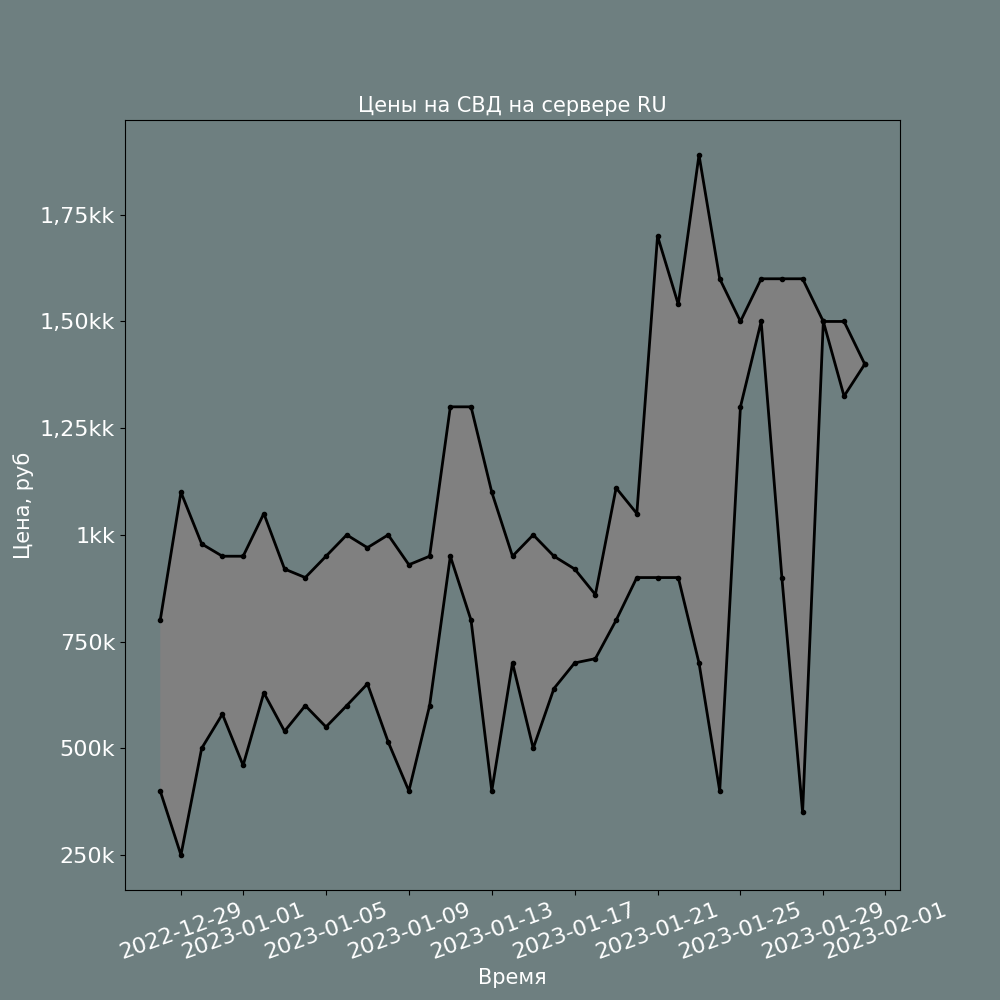
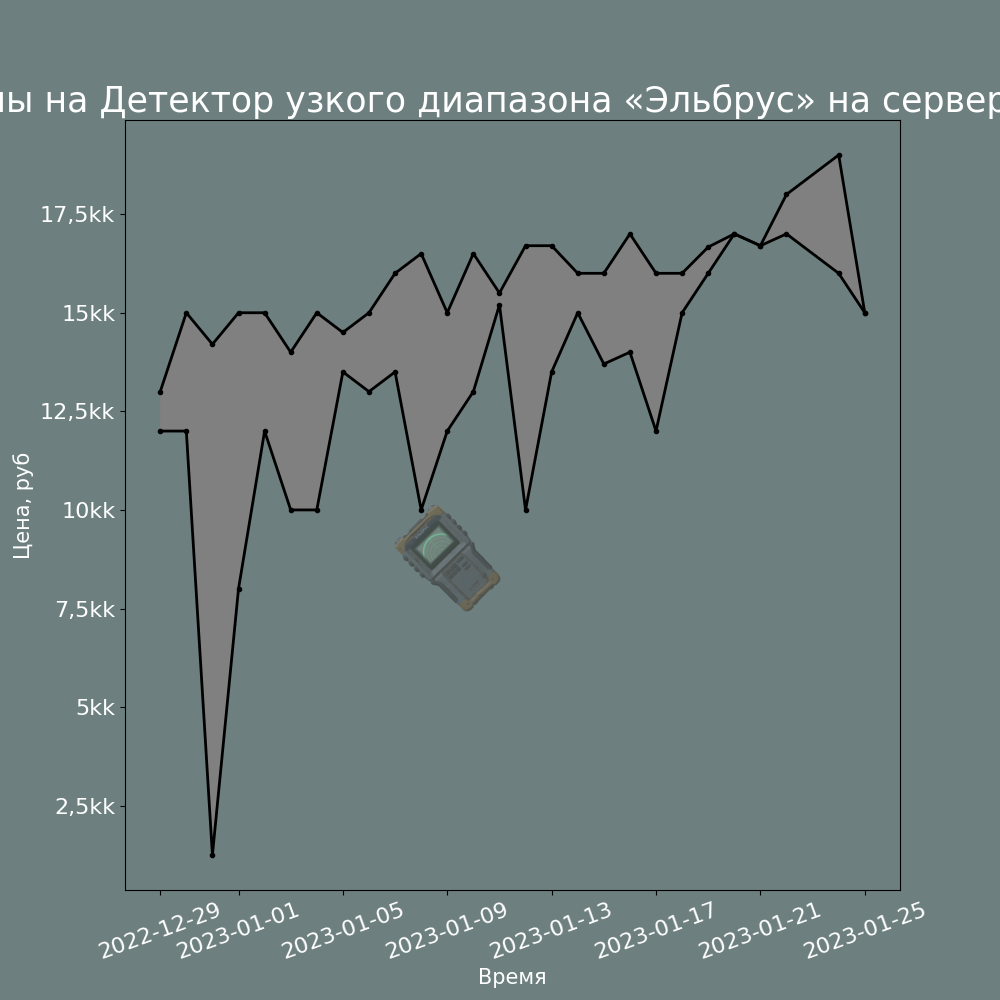
fix

diff --git a/worse.py b/worse.py
@@ -198,8 +198,10 @@ async def get_history(item_id: str, server: str, lang: str, item_name: str, imag
                 return sprice
             else:
                 s = ''
-                if sprice[-(ks*3):-(ks*3)+2] != '00':
-                    s = ','+sprice[-(ks*3):-(ks*3)+2]
+                if sprice[-(ks*3):-(ks*3)+1] != '0':
+                    s = ','+sprice[-(ks*3):-(ks*3)+1]
+                    if sprice[-(ks*3)+1:-(ks*3)+2] != '0':
+                        s += sprice[-(ks*3)+1:-(ks*3)+2]
                 prc = sprice[0:-(ks*3)]+s+'k'*ks
                 return prc
         ax.yaxis.set_major_formatter(FuncFormatter(formatPrice))
@@ -239,7 +241,7 @@ async def get_history(item_id: str, server: str, lang: str, item_name: str, imag
         f_size = 15
         xlab.set_fontsize(f_size)
         ylab.set_fontsize(f_size)
-        title.set_fontsize(f_size)
+        title.set_fontsize(25)
         ax = plt.gca()
         im = plt.imread(image_path)
         ax.figure.figimage(im,
